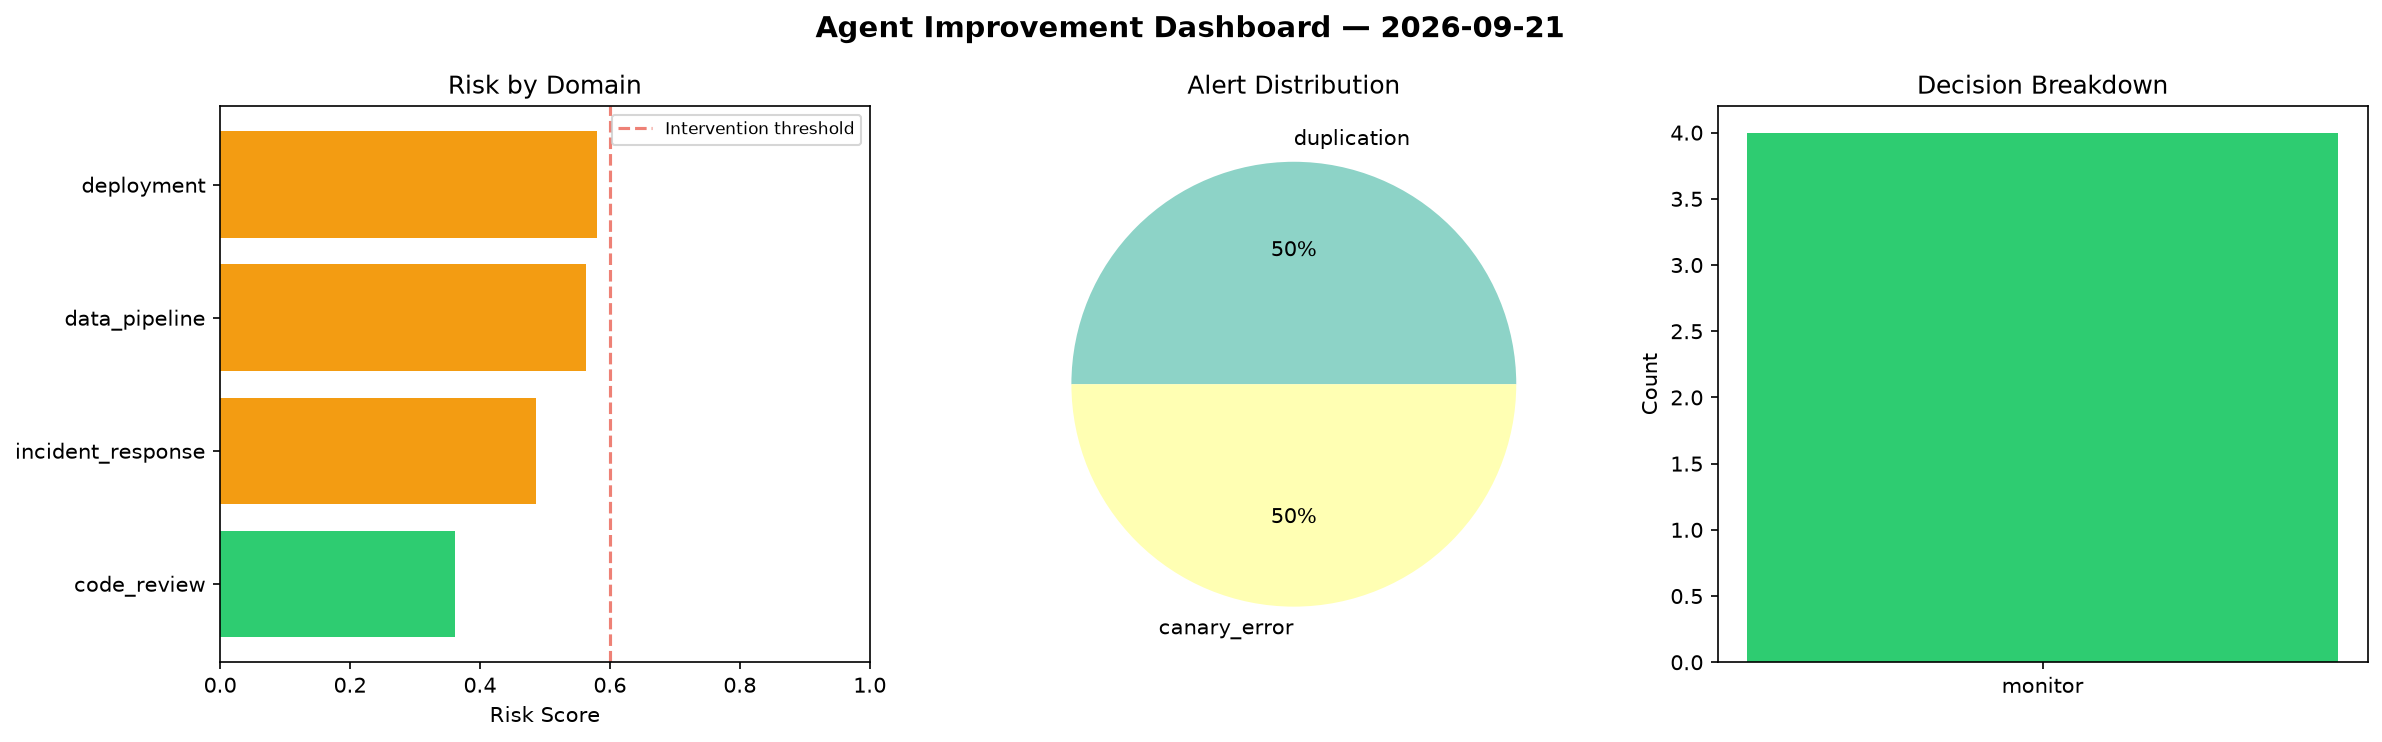
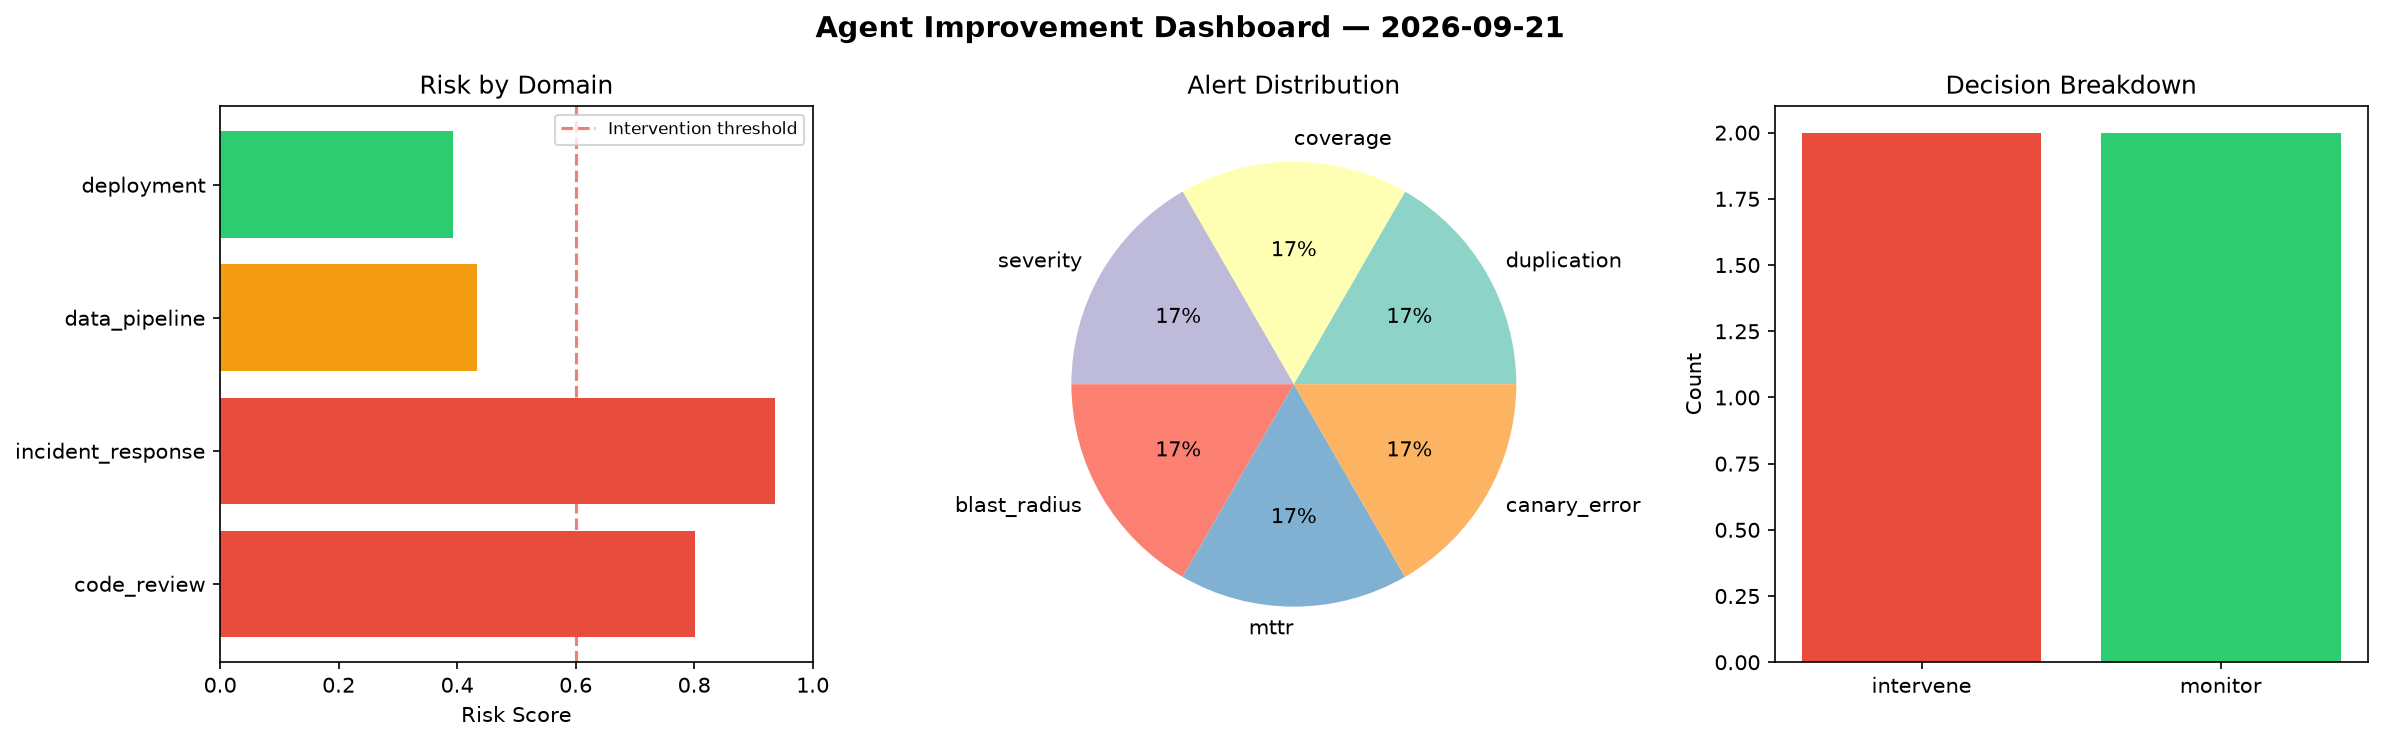
agent-improvement: daily cycle 2026-09-21T15:06

diff --git a/logs/2026-09-21.md b/logs/2026-09-21.md
@@ -1,6 +1,6 @@
 # Agent Improvement Report — 2026-09-21
 
-**Cycle ID:** `dcadc43a` | **Avg Risk:** 0.4976 | **Interventions:** 0/4
+**Cycle ID:** `58aa2cec` | **Avg Risk:** 0.6412 | **Interventions:** 2/4
 
 ![Dashboard](2026-09-21_dashboard.png)
 
@@ -10,18 +10,18 @@
 
 | Domain | Risk Score | Decision | Alerts |
 |--------|-----------|----------|--------|
-| code_review | 0.3614 | monitor | duplication |
-| incident_response | 0.4861 | monitor | none |
-| data_pipeline | 0.5633 | monitor | none |
-| deployment | 0.5795 | monitor | canary_error |
+| code_review | 0.8011 | intervene | duplication, coverage |
+| incident_response | 0.9359 | intervene | severity, blast_radius, mttr |
+| data_pipeline | 0.4341 | monitor | none |
+| deployment | 0.3936 | monitor | canary_error |
 
 ## Delta vs Yesterday
 
 | Domain | Today | Yesterday | Change |
 |--------|-------|-----------|--------|
-| code_review | 0.3614 | 0.6838 | 📉 -47.1% |
-| incident_response | 0.4861 | 0.2985 | 📈 62.8% |
-| data_pipeline | 0.5633 | 0.5541 | 📈 1.7% |
-| deployment | 0.5795 | 0.642 | 📉 -9.7% |
+| code_review | 0.8011 | 0.6838 | 📈 17.2% |
+| incident_response | 0.9359 | 0.2985 | 📈 213.5% |
+| data_pipeline | 0.4341 | 0.5541 | 📉 -21.7% |
+| deployment | 0.3936 | 0.642 | 📉 -38.7% |
 
-**Refinement:** `{'adjustment': 'tighten_thresholds', 'trend': 'degrading', 'window': 4}`
+**Refinement:** `{'adjustment': 'maintain', 'trend': 'improving', 'window': 4}`
